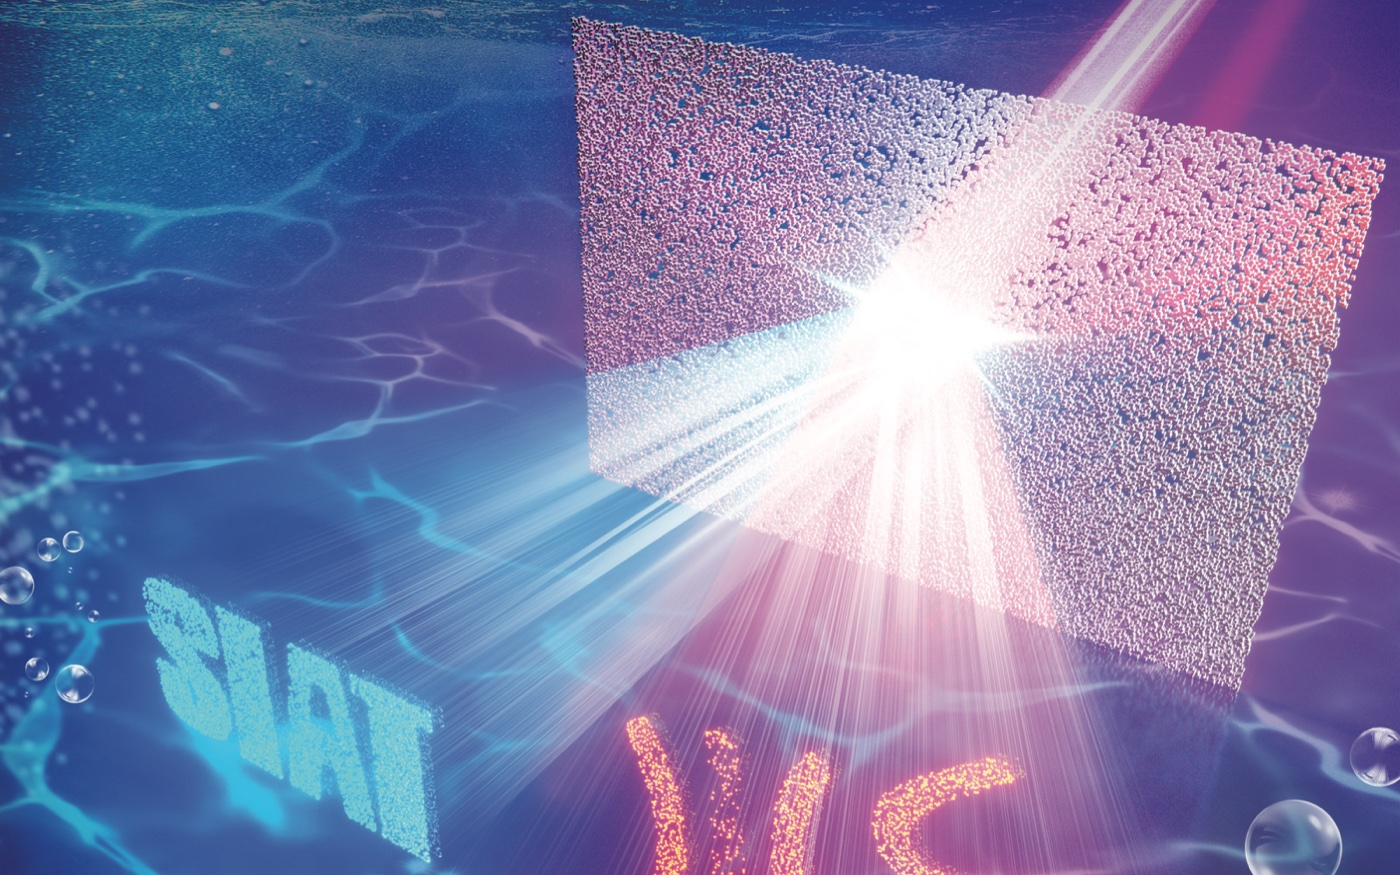
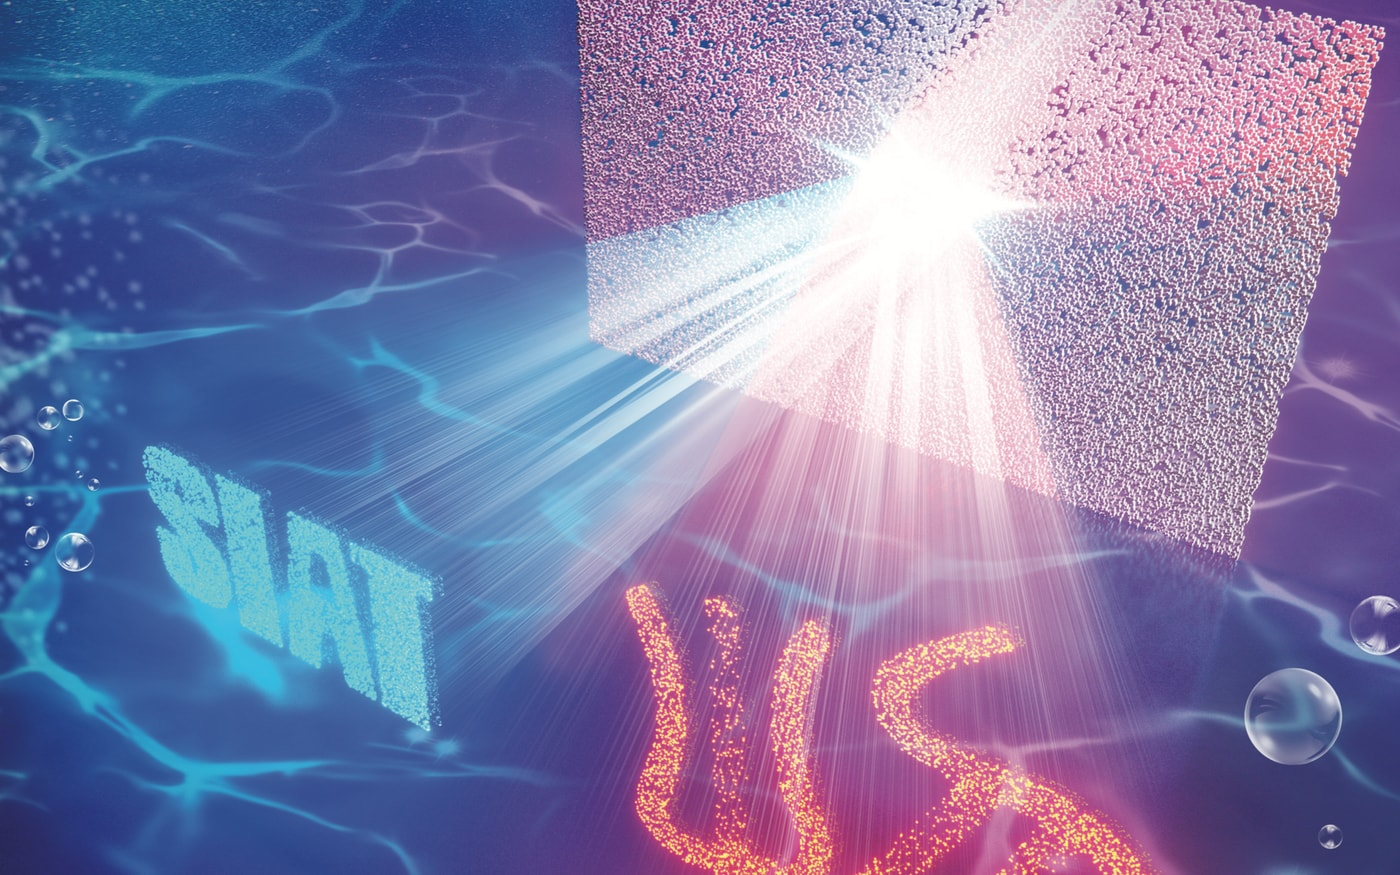
Recrop manifold holography cover thumbnail and remove edge gap

diff --git a/src/data/site.ts b/src/data/site.ts
@@ -65,6 +65,8 @@ export interface ResearchProject {
   status: 'ongoing' | 'completed';
   roleLine: string;
   thumbnail: string;
+  /** Default 'contain' keeps diagrams unclipped; 'cover' fills 16:10 frame cleanly for full-bleed artwork */
+  thumbnailFit?: 'contain' | 'cover';
   heroImage?: string;
   heroCaption?: string;
   bodyHtml: string[];
@@ -906,6 +908,7 @@ export const SITE = {
       roleLine:
         'Principal Investigator & Ph.D. Research · Huazhong University of Science and Technology',
       thumbnail: '/projects/manifold-holography.jpg',
+      thumbnailFit: 'cover',
       bodyHtml: [
         'Shaping high-frequency ultrasonic fields into complex volumetric patterns or subwavelength focal spots with conventional 3D-printed phase plates is constrained by microfabrication tolerances, acoustic attenuation, single-plane bandwidth limits, and strong super-oscillatory sidelobes. Supported in part as Principal Investigator by the Fundamental Research Funds for the Central Universities, we developed inverse-design frameworks combining <strong>forward angular-spectrum optimization</strong> and <strong>MATLAB–COMSOL genetic algorithms</strong> to engineer ultrathin binary amplitude metasurfaces and planar acoustic metalenses for precision wavefront control.',
         'Using picosecond-laser-fabricated <strong>high-pixel binary metasurfaces (~90,000 pixels)</strong> and zero-padded angular-spectrum propagation, 3D hydrophone field scans verified diffraction-limited manifold acoustic holography across multiple depths, frequencies, and 3D underwater targets, earning a cover feature in <em>Advanced Materials</em>. Extending these optimization methods to planar, sharp-edge, virtual super-lens, and 3D-printed phase metalenses further realized acoustic bottle beams, sidelobe-suppressed far-field focusing, and super-resolution pulse-echo defect and target imaging across waterborne ultrasonic regimes, highlighted by two <em>Applied Physics Letters</em> Featured Articles.',

diff --git a/src/styles/global.css b/src/styles/global.css
@@ -574,12 +574,21 @@ a:hover {
   border-bottom: 1px solid var(--border);
 }
 
+.research-thumb-wrap--cover {
+  background-color: #1c2c52;
+}
+
 .research-thumb {
   width: 100%;
   height: 100%;
   object-fit: contain;
   display: block;
   transition: transform 0.3s ease;
+}
+
+.research-thumb--cover {
+  object-fit: cover;
+  object-position: center;
 }
 
 .research-card:hover .research-thumb {
